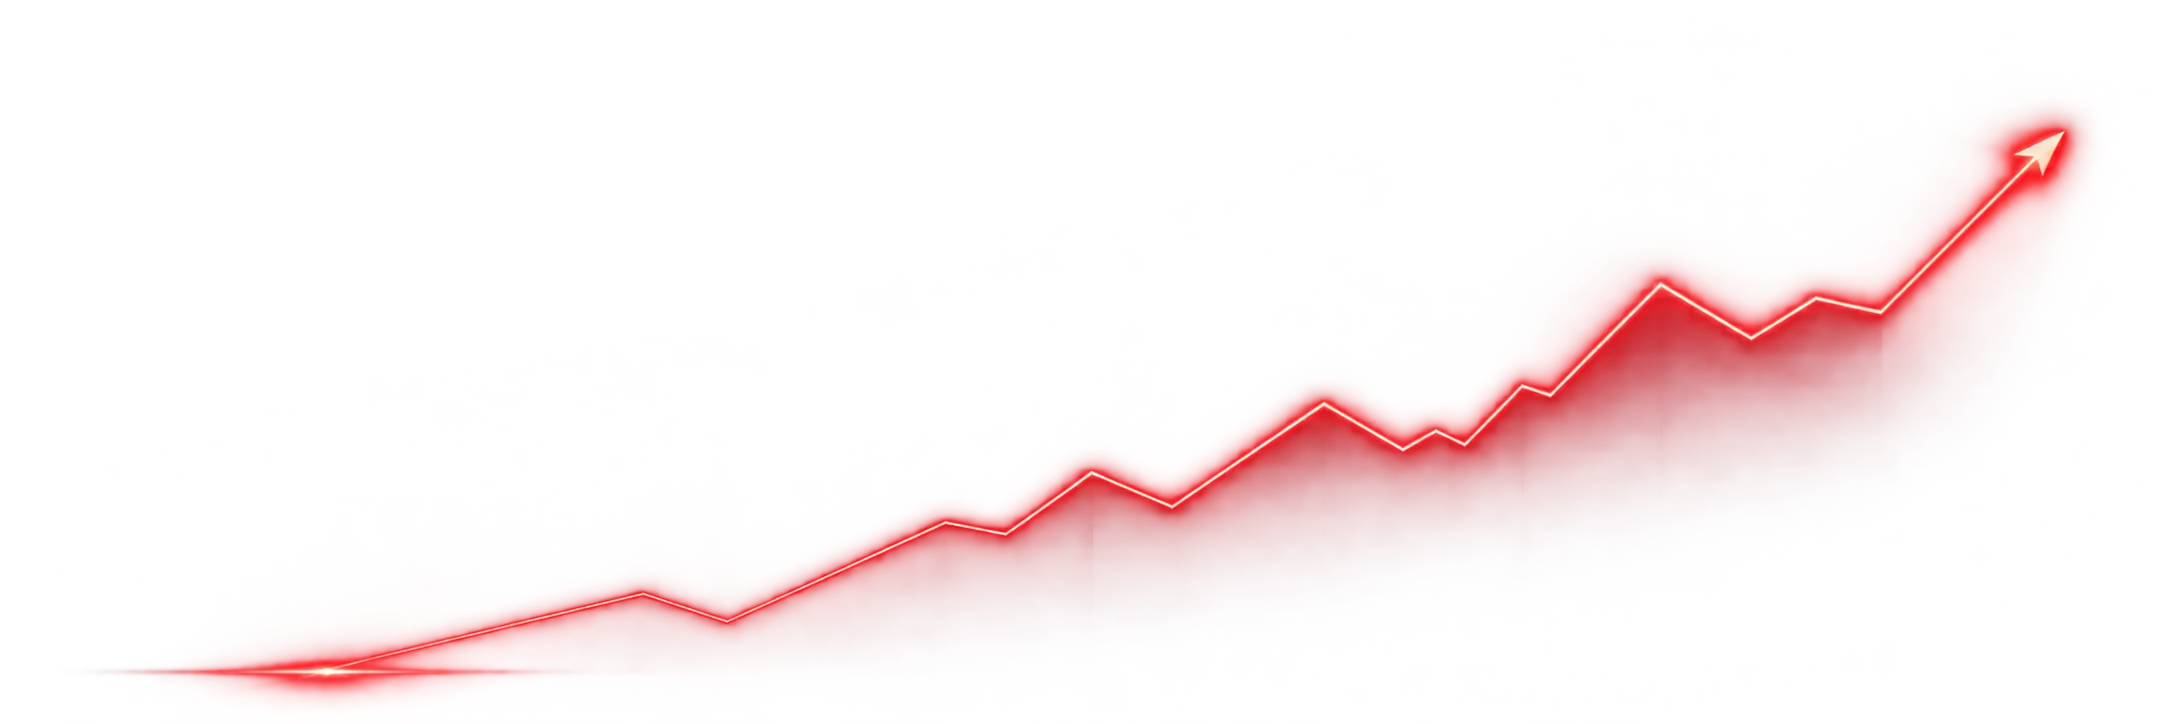
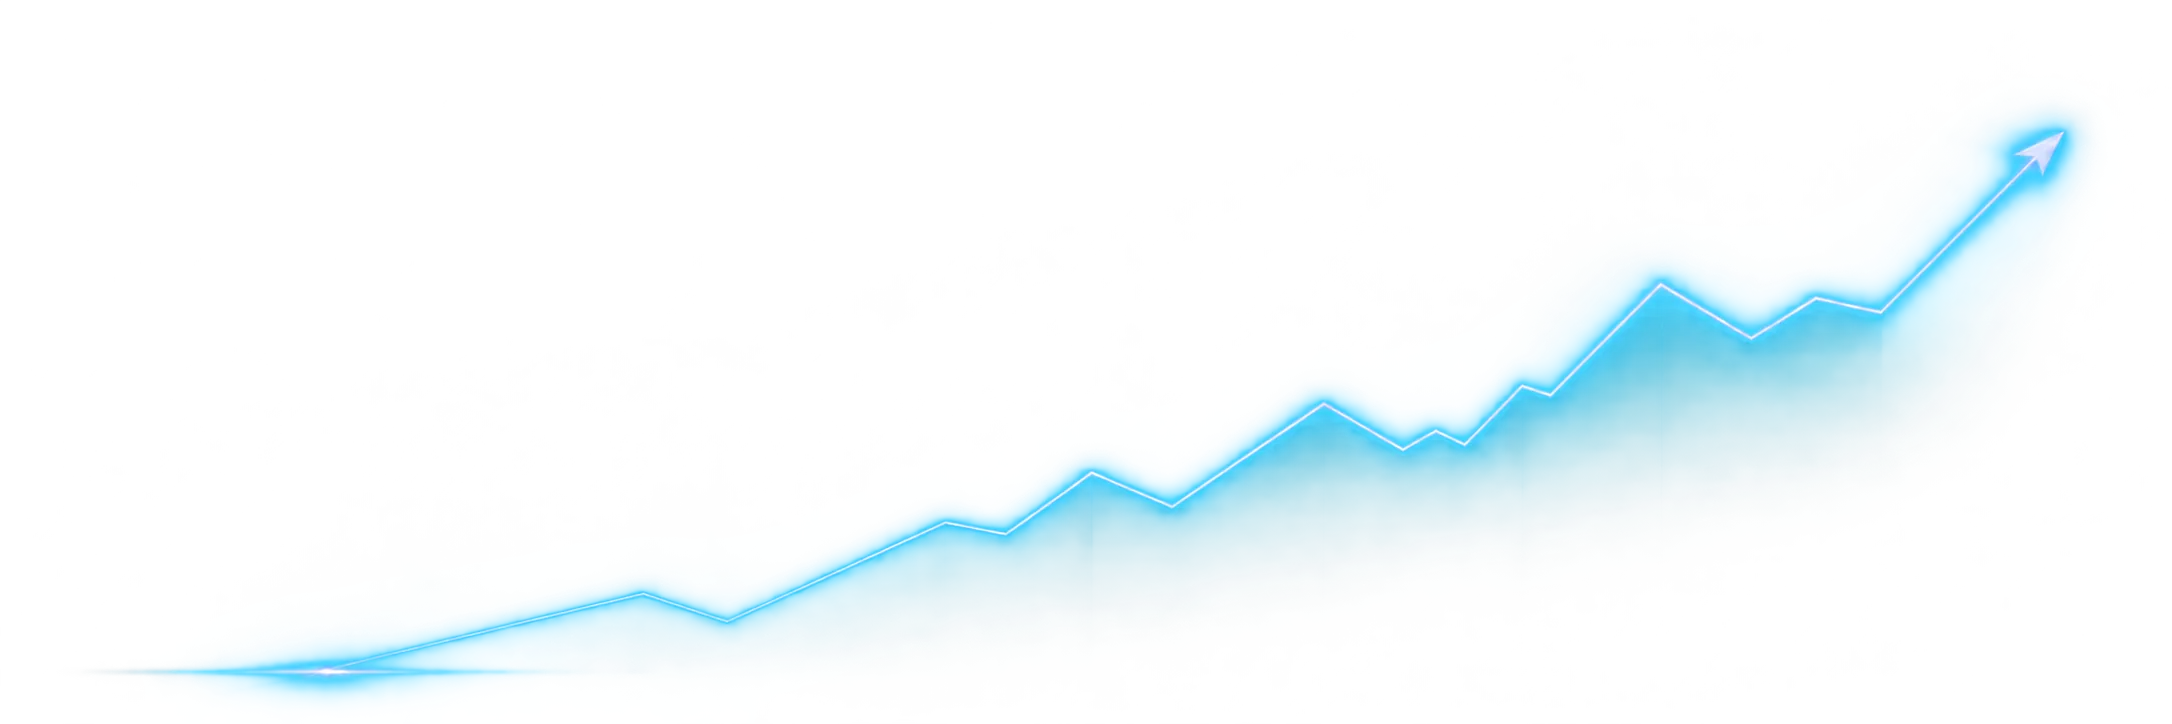
Neon light-blue background trend line
Claude-Session: https://claude.ai/code/session_01285bLgTk4g3r8mkhLaP3NU

Changed region(s): [[0.0617, 0.1519, 0.9871, 0.9724]]

diff --git a/scripts/make_site.py b/scripts/make_site.py
@@ -44,9 +44,9 @@ html, body { margin: 0; background: var(--color-bg); color: var(--color-fg); fon
 @keyframes sk { to { background-position: -200% 0; } }
 /* Background artwork: rising red trend line, fixed behind the page */
 body::before { content: ""; position: fixed; inset: 0; z-index: 0; pointer-events: none;
-  background: url(assets/bg-trend.webp) no-repeat center 58% / min(1400px, 105vw) auto; opacity: .22; }
-@media (prefers-color-scheme: dark) { :root:not([data-theme="light"]) body::before { opacity: .42; } }
-:root[data-theme="dark"] body::before { opacity: .42; }
+  background: url(assets/bg-trend.webp) no-repeat center 58% / min(1400px, 105vw) auto; opacity: .4; filter: saturate(1.3) contrast(1.1); }
+@media (prefers-color-scheme: dark) { :root:not([data-theme="light"]) body::before { opacity: .5; } }
+:root[data-theme="dark"] body::before { opacity: .5; }
 @media (max-width: 640px) { body::before { background-size: 210vw auto; background-position: 62% 55%; } }
 #dash-root { position: relative; z-index: 1; }
 .live-bar { display: flex; align-items: center; justify-content: space-between; gap: 10px; flex-wrap: wrap; margin-bottom: 10px; font-size: 12.5px; color: var(--color-fg-muted); }
